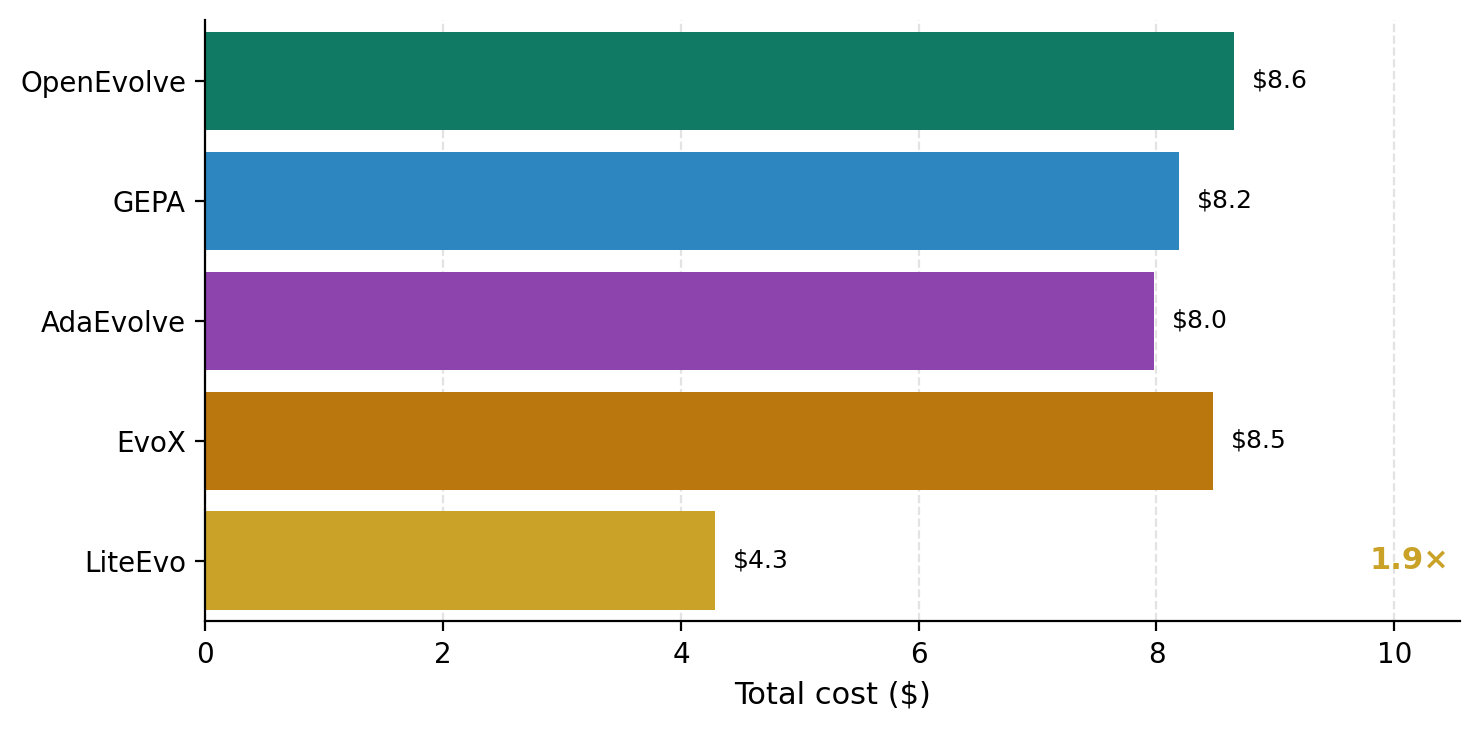
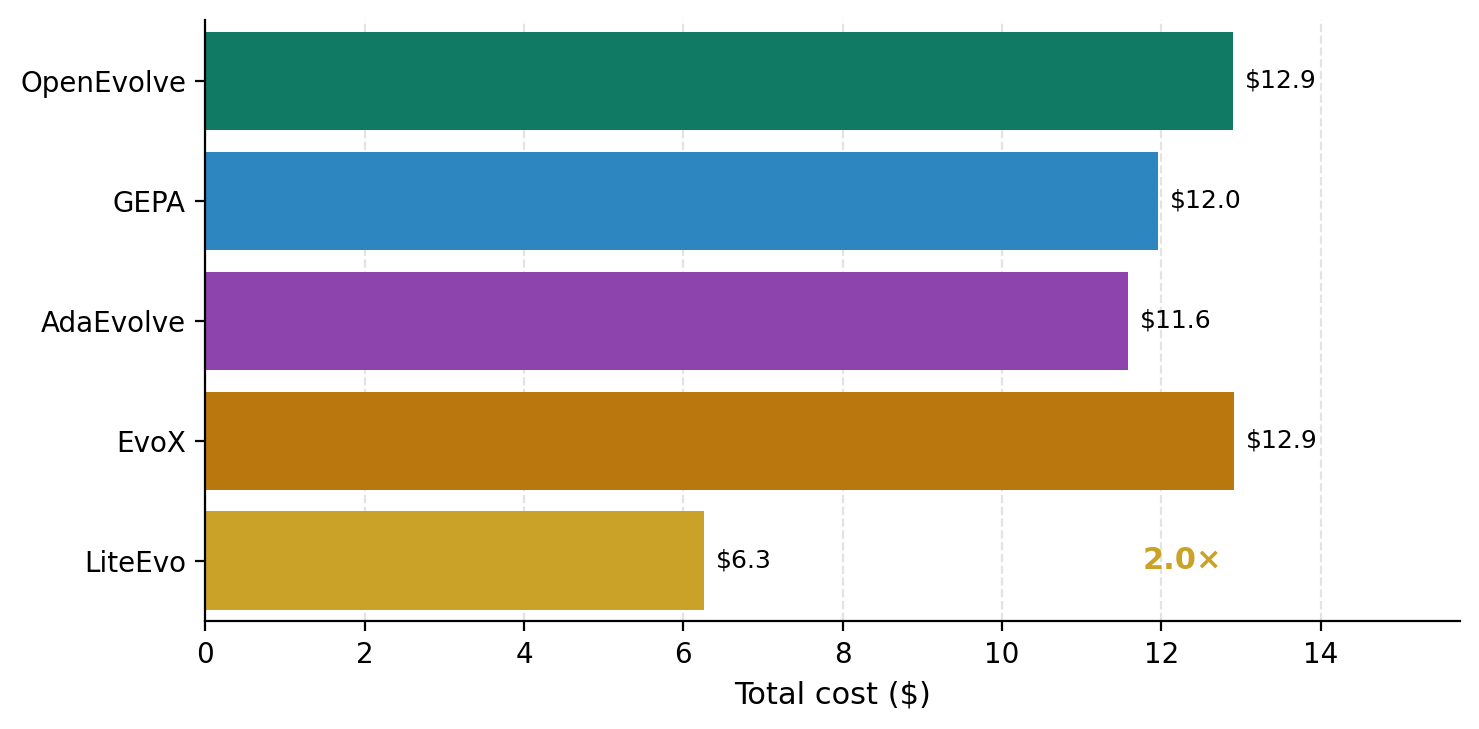
.

diff --git a/scripts/plots/plot_benchmark_cost_score.py b/scripts/plots/plot_benchmark_cost_score.py
@@ -118,6 +118,8 @@ KIMI_K2 = Suite(
         "heilbronn_convex",
         "heilbronn_triangle",
         "MinMax Distance (n=16, d=2)",
+        "MinMax Distance (n=14, d=3)",
+        "signal processing",
     ),
     methods=("OpenEvolve", "GEPA", "AdaEvolve", "EvoX", "LiteEvo"),
     data={
@@ -155,6 +157,20 @@ KIMI_K2 = Suite(
             "AdaEvolve": (0.0745, 1.4600),
             "EvoX": (0.0705, 1.4570),
             "LiteEvo": (0.0776, 1.3401),
+        },
+        "MinMax Distance (n=14, d=3)": {
+            "OpenEvolve": (0.2103, 1.6733),
+            "GEPA": (0.2113, 1.5141),
+            "AdaEvolve": (0.2214, 1.4140),
+            "EvoX": (0.2113, 2.1089),
+            "LiteEvo": (0.2358, 0.7214),
+        },
+        "signal processing": {
+            "OpenEvolve": (0.6965, 2.5747),
+            "GEPA": (0.6514, 2.2495),
+            "AdaEvolve": (0.6333, 2.1871),
+            "EvoX": (0.6192, 2.3201),
+            "LiteEvo": (0.7030, 1.2502),
         },
     },
     default_out=ROOT / "paper" / "figures" / "benchmark_cost_score_kimi_k2.pdf",
@@ -238,7 +254,7 @@ def main() -> None:
         "--suite",
         choices=sorted(SUITES),
         default="gpt-5",
-        help="gpt-5: 5 methods × 7 benchmarks; kimi-k2: 5 methods × 5 benchmarks",
+        help="gpt-5: 5 methods × 7 benchmarks; kimi-k2: 5 methods × 7 benchmarks",
     )
     parser.add_argument("--out", type=Path, default=None)
     args = parser.parse_args()
